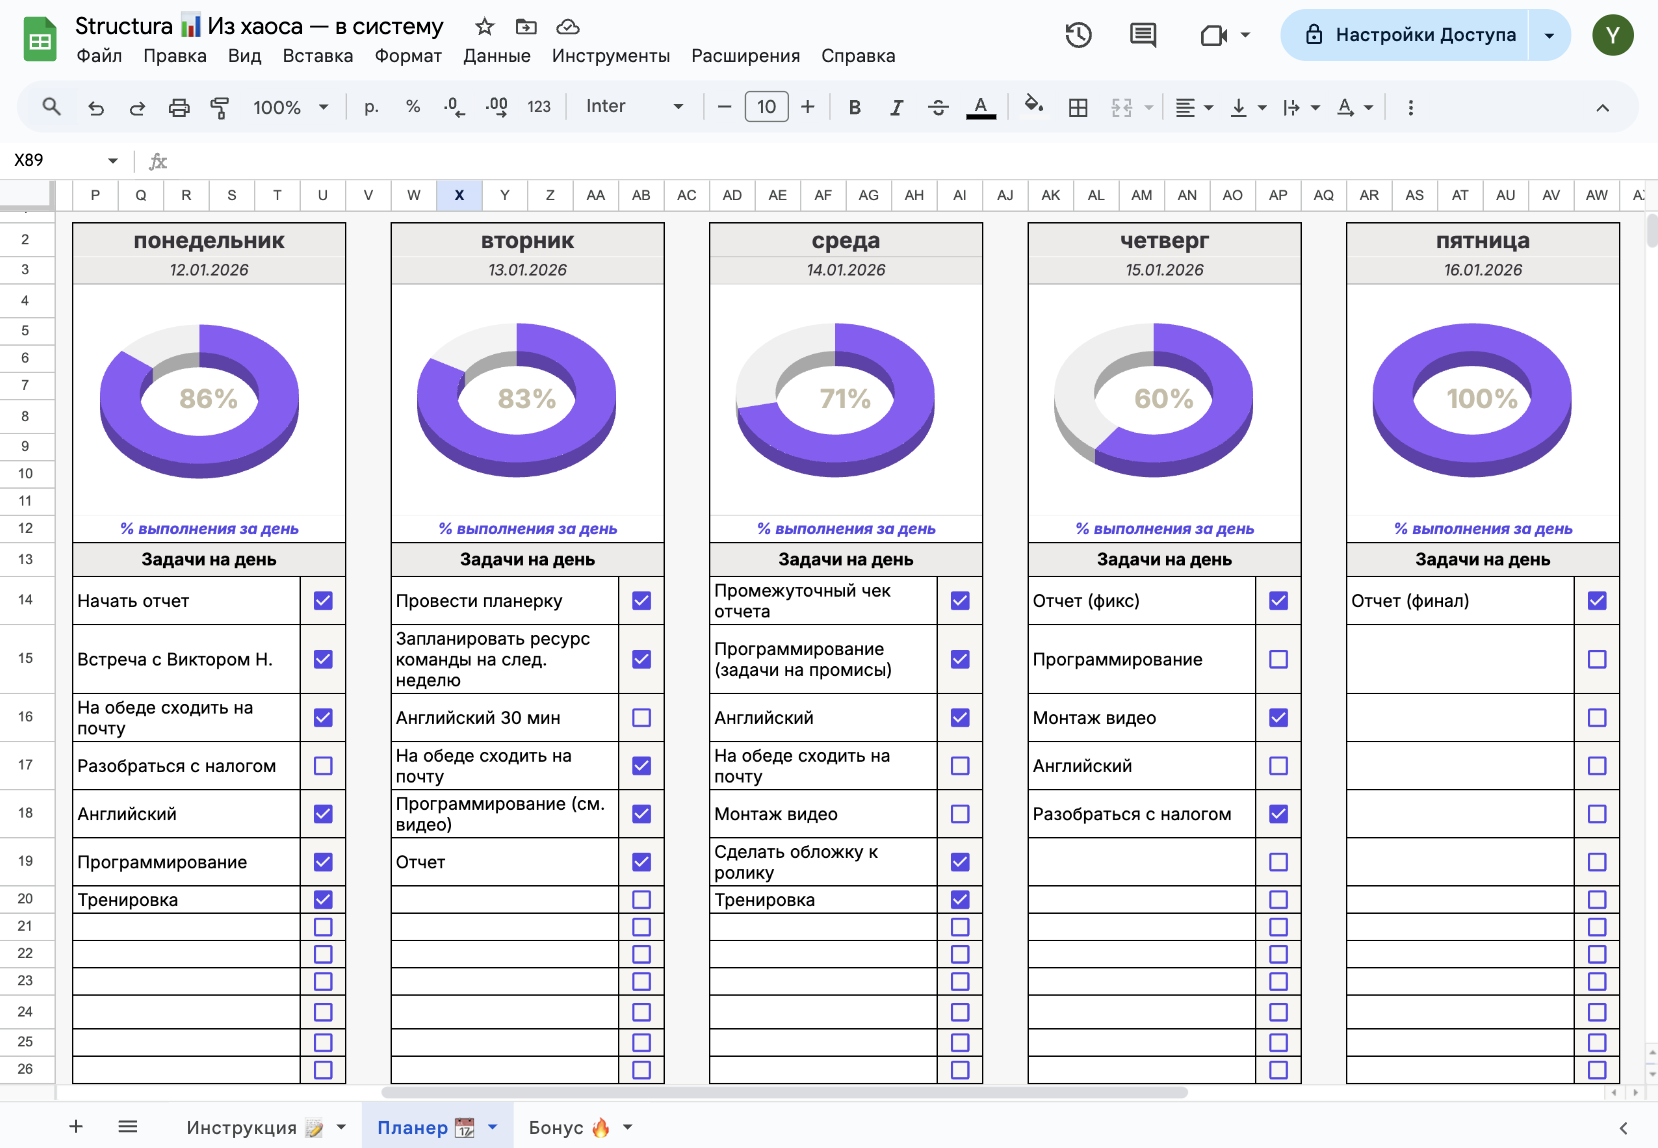
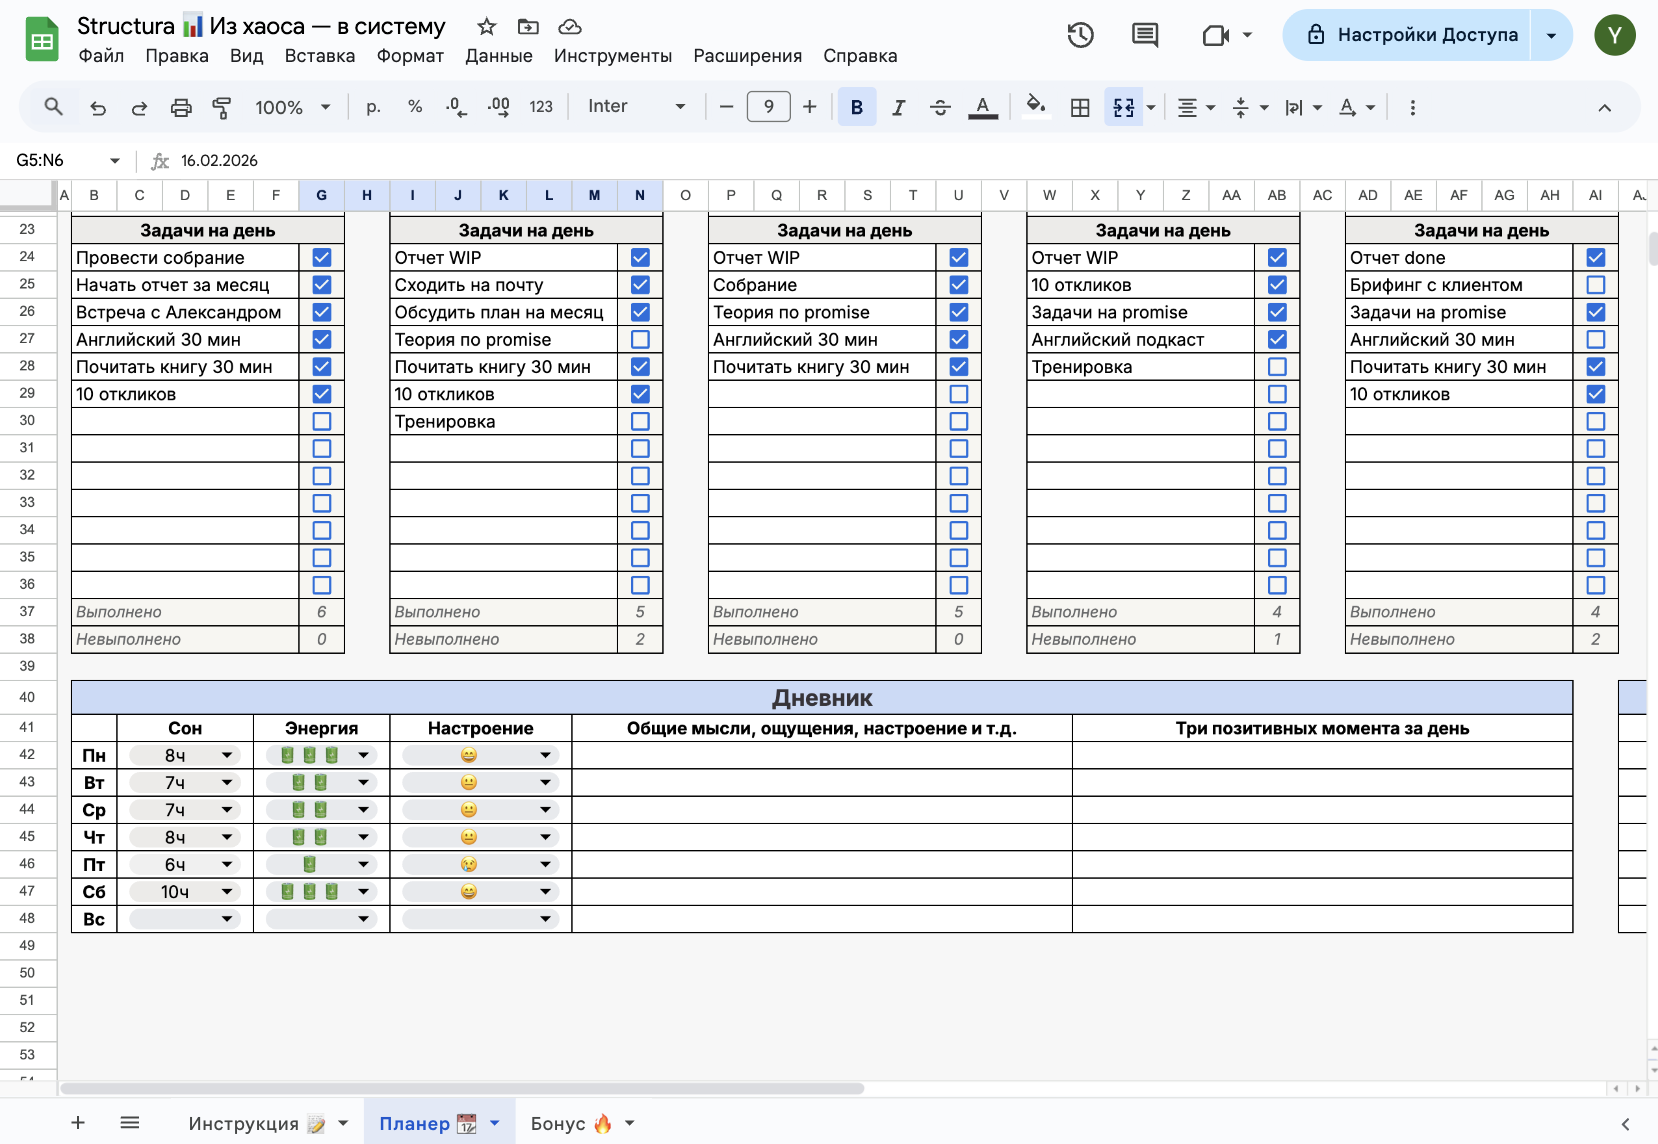
add content

diff --git a/src/components/ProductInfo.tsx b/src/components/ProductInfo.tsx
@@ -44,6 +44,9 @@ const ProductInfo: React.FC = () => {
             <SwiperSlide>
               <img src="/screens/screen-3.png" alt="Скриншот планер" />
             </SwiperSlide>
+                  <SwiperSlide>
+              <img src="/screens/screen-4.png" alt="Скриншот планер" />
+            </SwiperSlide>
           </Swiper>
         </div>
 